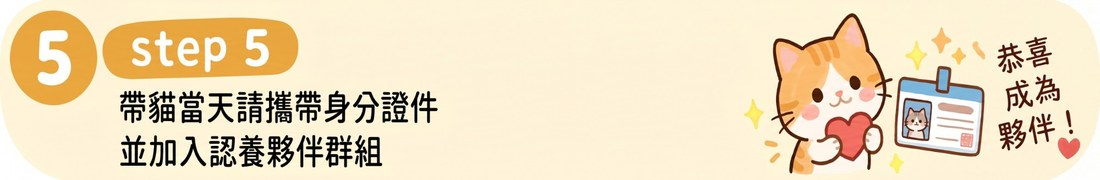
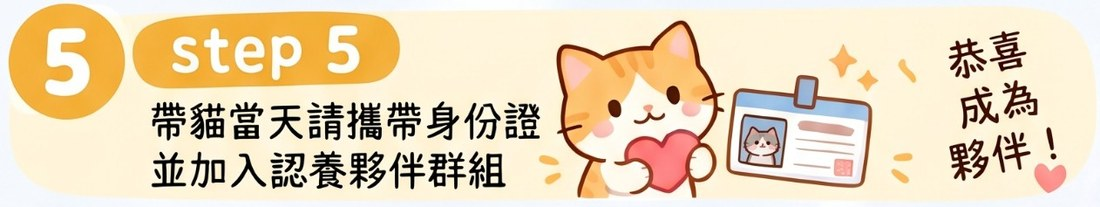
認養流程五條改回同一張切出，比例一致
step 5 原本單獨重做，尺寸比例與其他四條不同，縮放後內容明顯
偏小。改為五條全部從修正版設計稿切出，比例自然一致；
step 5 維持「身份證」不補「件」字。

diff --git a/adopt.html b/adopt.html
@@ -68,7 +68,7 @@
       <li><a href="images/step-2.jpg" target="_blank" rel="noopener"><img src="images/step-2.jpg" alt="step 2：確認收到粉專回覆後，方可預約賞貓時間" width="1100" height="222" loading="lazy"></a></li>
       <li><a href="images/step-3.jpg" target="_blank" rel="noopener"><img src="images/step-3.jpg" alt="step 3：若有確認想養的貓孩，請務必配合家訪" width="1100" height="235" loading="lazy"></a></li>
       <li><a href="images/step-4.jpg" target="_blank" rel="noopener"><img src="images/step-4.jpg" alt="step 4：確認認養環境無虞後，預約帶回貓孩的時間" width="1100" height="202" loading="lazy"></a></li>
-      <li><a href="images/step-5.jpg" target="_blank" rel="noopener"><img src="images/step-5.jpg" alt="step 5：帶貓當天請攜帶身分證件並加入認養夥伴群組" width="1100" height="180" loading="lazy"></a></li>
+      <li><a href="images/step-5.jpg" target="_blank" rel="noopener"><img src="images/step-5.jpg" alt="step 5：帶貓當天請攜帶身份證並加入認養夥伴群組" width="1100" height="207" loading="lazy"></a></li>
     </ol>
     <p class="flow-tip">圖片點一下可以放大看</p>
 
